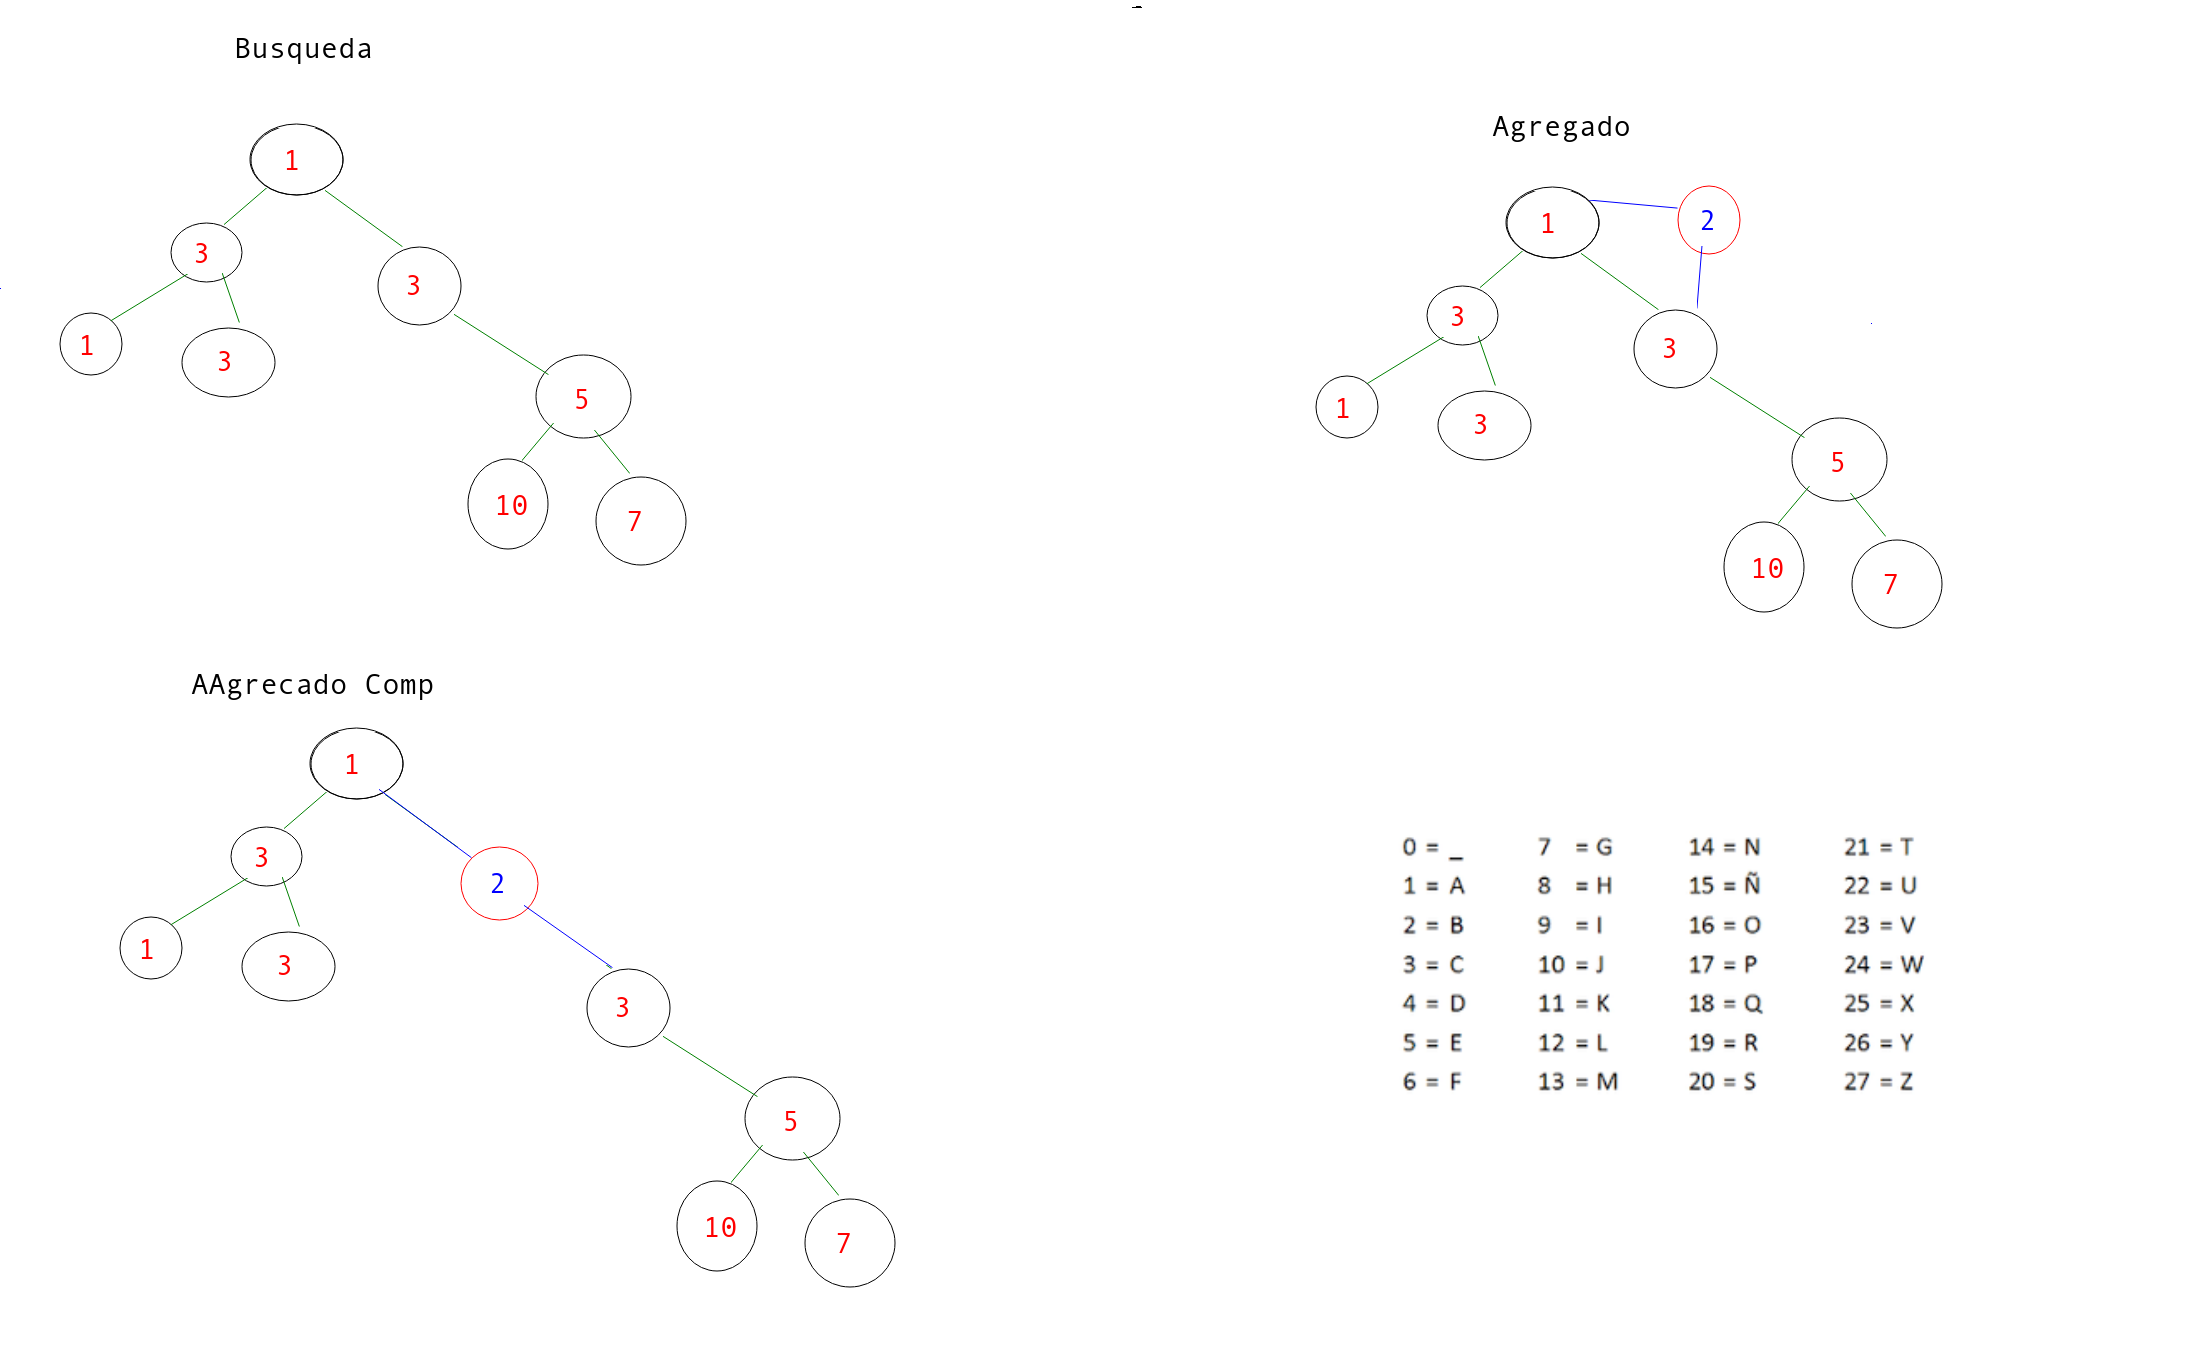
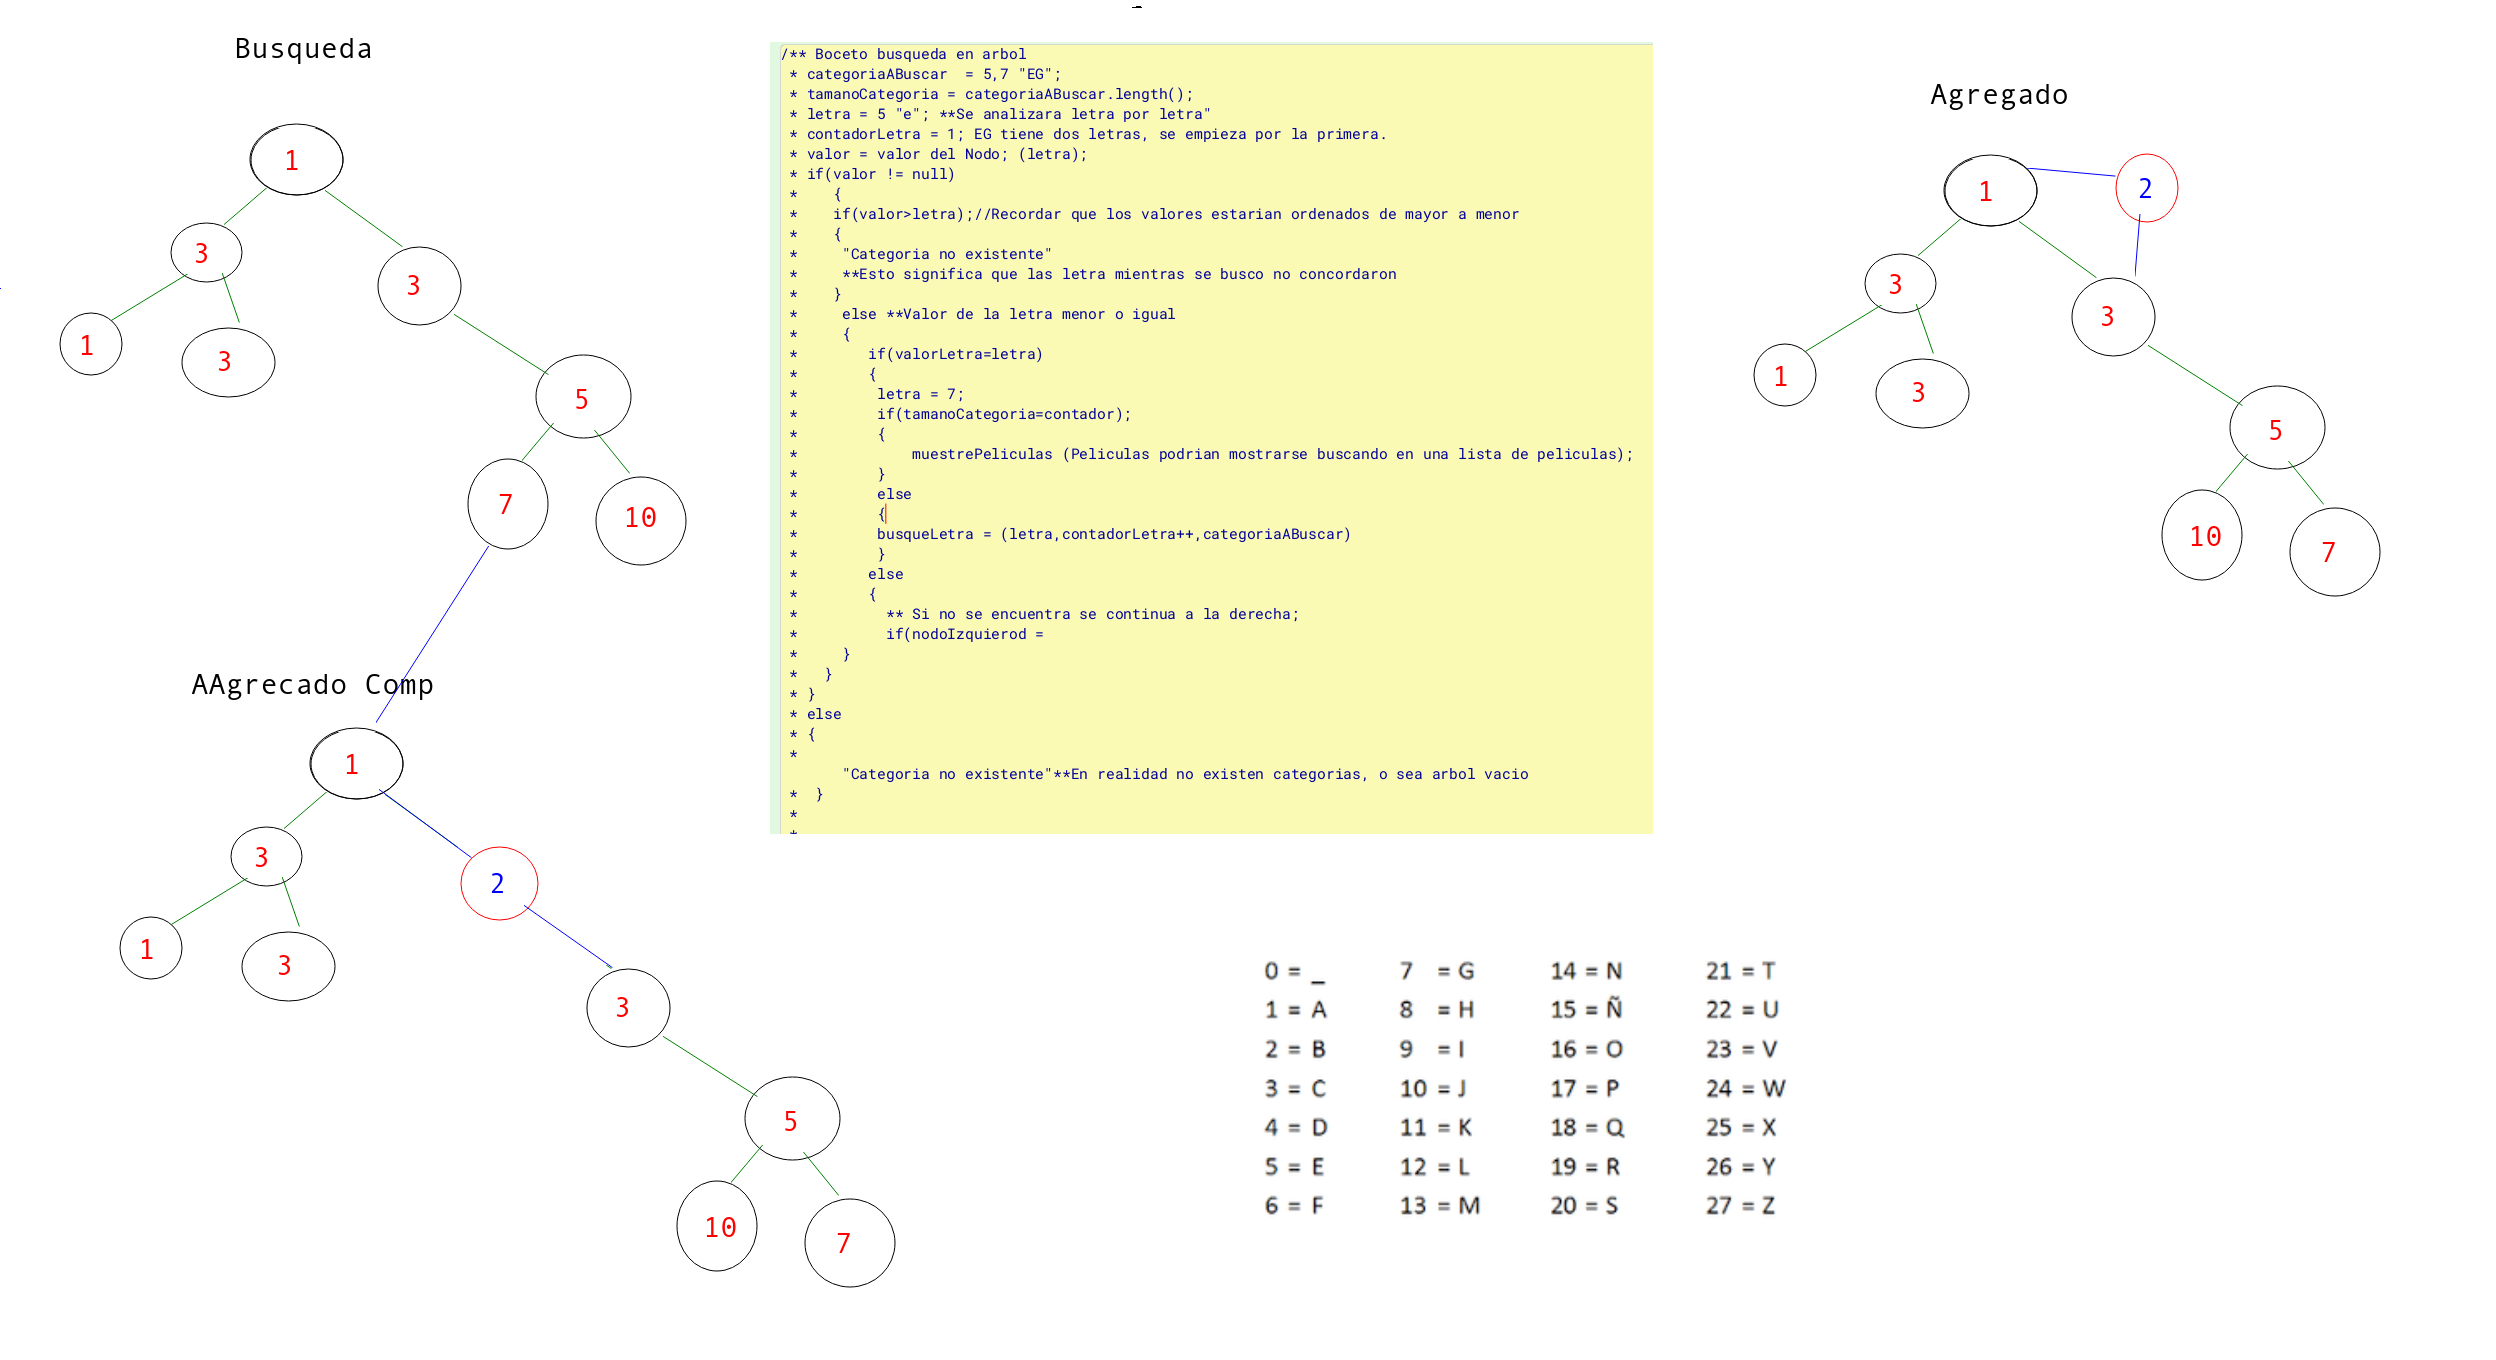
Añadido boceto de pseudocódigo adminitracion de arboles

diff --git a/EntradaDatos.java b/EntradaDatos.java
@@ -9,6 +9,47 @@ import java.io.Serializable;
 public class EntradaDatos implements Serializable
 
 {
+    /** Boceto busqueda en arbol
+     * categoriaABuscar  = 5,7 "EG";
+     * tamanoCategoria = categoriaABuscar.length();
+     * letra = 5 "e"; **Se analizara letra por letra"
+     * contadorLetra = 1; EG tiene dos letras, se empieza por la primera.
+     * valor = valor del Nodo; (letra); 
+     * if(valor != null)
+     *    {
+     *    if(valor>letra);//Recordar que los valores estarian ordenados de mayor a menor
+     *    {
+     *     "Categoria no existente"
+     *     **Esto significa que las letra mientras se busco no concordaron
+     *    }
+     *     else **Valor de la letra menor o igual
+     *     {
+     *        if(valorLetra=letra)
+     *        {
+     *         letra = 7;
+     *         if(tamanoCategoria=contador);
+     *         {
+     *             muestrePeliculas (Peliculas podrian mostrarse buscando en una lista de peliculas);
+     *         }
+     *         else
+     *         {
+     *         busqueLetra = (letra,contadorLetra++,categoriaABuscar)
+     *         }
+     *        else
+     *        {
+     *          ** Si no se encuentra se continua a la derecha;
+     *          if(nodoIzquierod = 
+     *     }
+     *   }
+     * }
+     * else
+     * {
+     *  
+           "Categoria no existente"**En realidad no existen categorias, o sea arbol vacio
+     *  }
+     * 
+     * 
+     */
     public EntradaDatos()
     {
 
@@ -47,6 +88,8 @@ public class EntradaDatos implements Serializable
         }
         return opcionElegida;
     }
+    
+    
 
    
     /**
